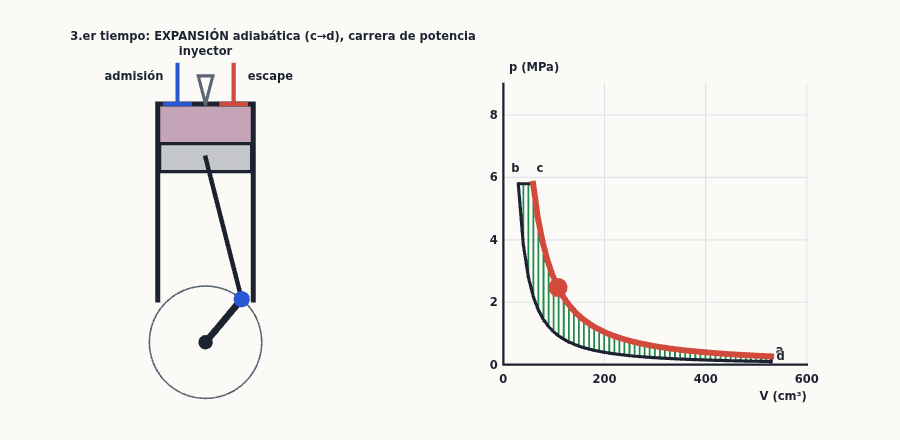
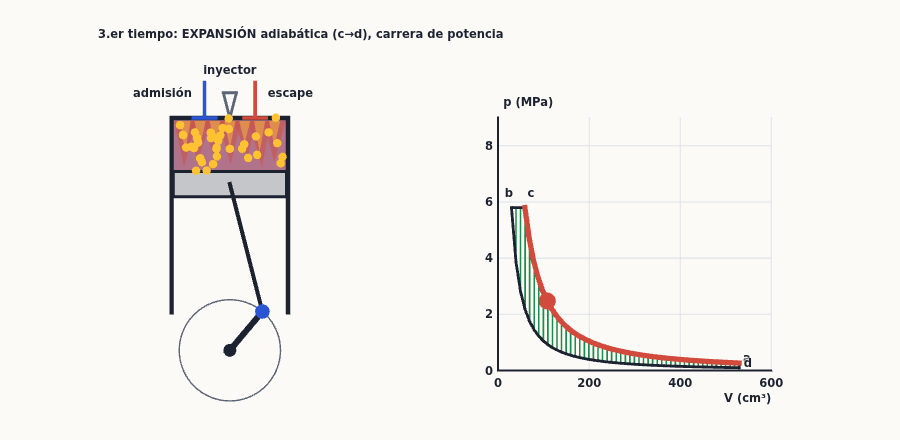
Motor Diesel: llama y moléculas dentro del cilindro (aire azul que entra, combustión con llama, gases que salen por el escape), cámara y cilindro más grandes
Claude-Session: https://claude.ai/code/session_013NPRw5Yt76X8T2S3CHRMJi

diff --git a/assets/escenas/motor-diesel.js b/assets/escenas/motor-diesel.js
@@ -10,11 +10,11 @@ Interactivos.registrar('motor-diesel', function (c) {
   var T = c.THREE, H = c.H, P = c.colores(), listo = false, clave = '';
   var gam = 1.4, Rg = 8.314, p0 = 101325, T0 = 300, Vd = 5e-4, VMAX = 600, PMAX = 9, TOPE = 2300;
   var r = 18, rc = 2, fi = 400, rep, sR, sRc;
-  var CX = -4.3, CY = -2.3, RC = 1.0, LB = 2.6, WL = 0.85, TOPE_P = 0.25, PH = 0.5;
+  var CX = -4.3, CY = -2.3, RC = 1.0, LB = 2.6, WL = 1.15, TOPE_P = 0.25, PH = 0.5;
   var PX0 = 1.0, PW = 5.4, PY0 = -2.7, PHH = 5.0;
   var yTDC = CY + RC + LB, crownTDC = yTDC + TOPE_P, carrera = 2 * RC;
   var fijos = [], ticks = [], eEt, eAd, eEs, eIn, eA, eB, eC, eD, eX, eY;
-  var biela, brazo, pin, centro, pistonR, pistonB, gasR, culata, valA, valE, inyec, chorro, ciclo, actual, sombra, pto, ptoC, ptoR;
+  var NP = 36, parts = [], rnd = [], llamaE, llamaI, brillo, biela, brazo, pin, centro, pistonR, pistonB, gasR, culata, valA, valE, inyec, chorro, ciclo, actual, sombra, pto, ptoC, ptoR;
   var l1 = c.lectura(''), l2 = c.lectura(''), l3 = c.lectura(''), l4 = c.lectura('');
   var fm = function (x, d) { return x.toFixed(d).replace('.', ',').replace(/^-/, '−'); };
   function gx(V) { return PX0 + V / VMAX * PW; }
@@ -25,7 +25,7 @@ Interactivos.registrar('motor-diesel', function (c) {
     var e = 1 - (Math.pow(rc, gam) - 1) / (Math.pow(r, gam - 1) * gam * (rc - 1));
     return { Vb: Vb, Va: Va, n: n, pb: pb, Tb: Tb, Tc: Tc, pd: pd, Td: Td, Qin: Qin, Qout: Qout, W: W, e: e, eO: 1 - Math.pow(r, 1 - gam), eC: 1 - T0 / Tc, Vc: rc * Vb };
   }
-  function hVis(rr) { return 0.12 + 0.045 * (24 - rr); }  /* altura de la cámara con el pistón arriba: exagerada para que se vea (la real sería carrera/(r − 1)) */
+  function hVis(rr) { return 0.5 + 0.04 * (24 - rr); }  /* altura de la cámara con el pistón arriba: exagerada para que se vea (la real sería carrera/(r − 1)) */
   function mecanismo(f) {
     var th = (f % 360) * Math.PI / 180, yp = CY + RC * Math.cos(th) + Math.sqrt(LB * LB - RC * RC * Math.sin(th) * Math.sin(th));
     return { th: th, yp: yp, crown: yp + TOPE_P, xd: crownTDC - (yp + TOPE_P), pin: [CX + RC * Math.sin(th), CY + RC * Math.cos(th)] };
@@ -43,17 +43,24 @@ Interactivos.registrar('motor-diesel', function (c) {
     var q = new T.Mesh(new T.PlaneGeometry(1, 1), new T.MeshBasicMaterial({ color: col, transparent: true, opacity: op })); q.position.z = z;
     q.poner = function (x0, y0, x1, y1) { q.position.x = (x0 + x1) / 2; q.position.y = (y0 + y1) / 2; q.scale.set(Math.max(1e-6, x1 - x0), Math.max(1e-6, y1 - y0), 1); }; c.scene.add(q); fijos.push(q); return q;
   }
+  function hs_(x) { var q = Math.sin(x) * 43758.5453; return q - Math.floor(q); }
+  for (var ii = 0; ii < NP; ii++) rnd.push([hs_(ii * 12.9 + 1), hs_(ii * 78.2 + 2), hs_(ii * 37.7 + 3)]);
+  function tri(col, op, z) {
+    var m = new T.Mesh(new T.BufferGeometry(), new T.MeshBasicMaterial({ color: col, transparent: true, opacity: op, side: T.DoubleSide })); m.position.z = z;
+    m.set = function (ts) { var a = []; ts.forEach(function (t) { a.push(t[0][0], t[0][1], 0, t[1][0], t[1][1], 0, t[2][0], t[2][1], 0); }); m.geometry.dispose(); m.geometry = new T.BufferGeometry(); m.geometry.setAttribute('position', new T.Float32BufferAttribute(a, 3)); };
+    c.scene.add(m); fijos.push(m); return m;
+  }
   function add(o) { c.scene.add(o); fijos.push(o); return o; }
   function construir() {
     var k = P.fg + P.bg + P.S + P.W + P.L + P.A + P.acc; if (k === clave && ciclo) return; clave = k;
     fijos.forEach(function (o) { c.scene.remove(o); }); fijos = [];
-    c.vista(-6.8, 6.9, -3.75, 3.5); var w = 0.04, i;
+    c.vista(-6.8, 6.9, -3.75, 4.3); var w = 0.04, i;
     var rej = []; [0, 200, 400, 600].forEach(function (v) { rej.push([[gx(v), PY0], [gx(v), PY0 + PHH]]); }); [0, 2, 4, 6, 8].forEach(function (v) { rej.push([[PX0, gy(v)], [PX0 + PW, gy(v)]]); });
     var a = add(H.cinta(T, rej, P.bd, w * 0.5)); a.position.z = -0.3;
     var b = add(H.cinta(T, [[[PX0, PY0], [PX0 + PW, PY0]], [[PX0, PY0], [PX0, PY0 + PHH]]], P.fg, w)); b.position.z = -0.2;
     var cir = []; for (i = 0; i <= 72; i++) cir.push([CX + RC * Math.sin(2 * Math.PI * i / 72), CY + RC * Math.cos(2 * Math.PI * i / 72)]);
     add(H.cinta(T, [cir], P.mut, w * 0.7, [w * 5, w * 4])).position.z = -0.1;
-    gasR = rect(P.S, 0.5, -0.05); pistonR = rect(P.mut, 0.35, 0.02);
+    gasR = rect(P.S, 0.5, -0.05); brillo = rect(P.W, 0, -0.04); llamaE = tri(P.W, 0.9, 0.0); llamaI = tri(new T.Color('#ffc233'), 0.9, 0.01); pistonR = rect(P.mut, 0.35, 0.02);
     pistonB = add(H.cinta(T, [], P.fg, w * 1.5)); pistonB.position.z = 0.08;
     culata = add(H.cinta(T, [], P.fg, w * 2.2)); culata.position.z = 0.1;
     valA = add(H.cinta(T, [], P.S, w * 1.8)); valA.position.z = 0.12; valE = add(H.cinta(T, [], P.W, w * 1.8)); valE.position.z = 0.12;
@@ -63,6 +70,7 @@ Interactivos.registrar('motor-diesel', function (c) {
     sombra = add(H.cinta(T, [], P.L, w * 0.8)); sombra.position.z = 0.02;
     ciclo = add(H.cinta(T, [], P.fg, w * 1.4)); ciclo.position.z = 0.1; actual = add(H.cinta(T, [], P.W, w * 2.6)); actual.position.z = 0.14;
     pto = add(H.punto(T, 0, 0, w * 4.2, P.W)); pto.position.z = 0.5;
+    parts = []; for (i = 0; i < NP; i++) { var q = add(H.punto(T, 0, 0, w * 2.1, P.S)); q.position.z = 0.3; parts.push(q); }
     ticks.forEach(function (e) { e.ver(false); }); var j = 0, tx;
     [0, 200, 400, 600].forEach(function (v) { tx = ticks[j] || (ticks[j] = c.etiqueta('', 0, 0, 'c')); j++; tx.poner(fm(v, 0)); tx.mover(gx(v), PY0 - 0.25); tx.ver(true); });
     [0, 2, 4, 6, 8].forEach(function (v) { tx = ticks[j] || (ticks[j] = c.etiqueta('', 0, 0, 'r')); j++; tx.poner(fm(v, 0)); tx.mover(PX0 - 0.1, gy(v)); tx.ver(true); });
@@ -74,16 +82,36 @@ Interactivos.registrar('motor-diesel', function (c) {
     culata.set([[[xl, -1.55], [xl, headY], [xr, headY], [xr, -1.55]]]);
     pistonR.poner(x0 + 0.03, m.crown - PH, x1 - 0.03, m.crown); pistonB.set([[[x0 + 0.03, m.crown - PH], [x0 + 0.03, m.crown], [x1 - 0.03, m.crown], [x1 - 0.03, m.crown - PH], [x0 + 0.03, m.crown - PH]]]);
     var u = Math.max(0, Math.min(1, (S.T - T0) / (TOPE - T0))), col = new T.Color(P.S).lerp(new T.Color(P.W), u);
-    gasR.material.color.copy(col); gasR.poner(x0 + 0.03, m.crown, x1 - 0.03, headY);
+    gasR.material.opacity = S.et === 2 || S.et === 3 ? 0.75 : 0.5; gasR.material.color.copy(S.et >= 4 ? new T.Color(P.mut).lerp(new T.Color(P.W), 0.2) : col); gasR.poner(x0 + 0.03, m.crown, x1 - 0.03, headY);
     var abA = S.et === 0 ? 0.16 : 0, abE = S.et === 5 || S.et === 4 ? 0.16 : 0;
     valA.set([[[CX - 0.5, headY + 0.7 - abA], [CX - 0.5, headY - abA]], [[CX - 0.72, headY - abA], [CX - 0.28, headY - abA]]]);
     valE.set([[[CX + 0.5, headY + 0.7 - abE], [CX + 0.5, headY - abE]], [[CX + 0.28, headY - abE], [CX + 0.72, headY - abE]]]);
     inyec.set([[[CX - 0.13, headY + 0.5], [CX + 0.13, headY + 0.5], [CX, headY], [CX - 0.13, headY + 0.5]]]);
-    chorro.set(S.et === 2 ? [[[CX, headY - 0.02], [CX - 0.3, headY - 0.38]], [[CX, headY - 0.02], [CX, headY - 0.42]], [[CX, headY - 0.02], [CX + 0.3, headY - 0.38]]] : []);
+    // llama, gases y moléculas dentro de la cámara (todo en función de φ: al girar hacia atrás se deshace)
+    var xa = x0 + 0.12, xb = x1 - 0.12, yb = m.crown + 0.08, yt = headY - 0.06, hc = headY - m.crown, fr_ = function (z) { return z - Math.floor(z); };
+    var cl = new T.Color(P.W), cf = new T.Color(P.S), cm = new T.Color(P.mut), wh = new T.Color('#ffffff');
+    var s0 = S.et === 2 ? (S.V - K.Vb) / (K.Vc - K.Vb) : 1, fade = S.et === 2 ? 1 : S.et === 3 ? Math.max(0, 1 - 1.5 * Math.sqrt((S.V - K.Vc) / (K.Va - K.Vc))) : 0;
+    var tong = [], tong2 = [], NT = 7, kk, L = S.et === 2 ? 0.55 + 0.45 * s0 : 1;
+    if (fade > 0) for (kk = 0; kk < NT; kk++) {
+      var xk = xa + (xb - xa) * (kk + 0.5) / NT, hw = (xb - xa) / NT * 0.75, la = hc * L * (0.6 + 0.4 * rnd[kk][0]) * (1 + 0.12 * Math.sin(fi * 0.9 + kk * 2.1)), ap = Math.max(yb, yt - la);
+      tong.push([[xk - hw, yt], [xk + hw, yt], [xk + 0.06 * Math.sin(fi * 0.7 + kk), ap]]);
+      tong2.push([[xk - hw * 0.5, yt], [xk + hw * 0.5, yt], [xk, Math.max(yb, yt - la * 0.6)]]);
+    }
+    llamaE.set(tong); llamaI.set(tong2); llamaE.material.opacity = 0.9 * fade; llamaI.material.opacity = 0.9 * fade;
+    brillo.poner(x0 + 0.03, m.crown, x1 - 0.03, headY); brillo.material.opacity = 0.3 * fade * (S.et === 2 || S.et === 3 ? 1 : 0) + (S.et === 2 && fi < 376 ? 0.5 * (1 - (fi - 360) / 16) : 0);
+    for (i = 0; i < NP; i++) {
+      var rr = rnd[i], bx = xa + (xb - xa) * rr[0], by = yb + (yt - yb) * rr[1], jit = 0.02 + 0.045 * Math.sqrt(S.T / T0) * (S.et === 0 || S.et === 5 ? 0.5 : 1), ph = fi * 0.45 + rr[2] * 6.283, px, py, s1, vis = true, pc;
+      px = bx + Math.sin(ph) * jit; py = by + Math.cos(ph * 1.3) * jit;
+      if (S.et === 0) { s1 = fr_(i / NP + fi / 75); px = CX - 0.5 + (px - (CX - 0.5)) * s1; py = headY + 0.55 + (py - headY - 0.55) * s1; vis = py < yt + 0.02 || s1 < 0.5; pc = cf.clone(); }
+      else if (S.et >= 4) { s1 = fr_(i / NP + (fi - 540) / 80); px = px + (CX + 0.5 - px) * s1; py = py + (headY + 0.9 - py) * s1; vis = s1 < 0.97 && (fi - 540) / 80 + i / NP > 0.2 * 0 ; pc = cl.clone().lerp(cm, Math.min(1, s1 * 1.5)); }
+      else pc = u < 0.3 ? cf.clone() : S.et >= 2 ? new T.Color('#ffc233') : cl.clone();
+      parts[i].visible = vis; parts[i].mover(px, py); parts[i].material.color.copy(pc);
+    }
+    chorro.set(S.et === 2 ? [[[CX, headY - 0.02], [CX - 0.3, Math.max(m.crown + 0.05, headY - 0.38)]], [[CX, headY - 0.02], [CX, Math.max(m.crown + 0.05, headY - 0.42)]], [[CX, headY - 0.02], [CX + 0.3, Math.max(m.crown + 0.05, headY - 0.38)]]] : []);
     biela.set([[m.pin, [CX, m.yp]]]); brazo.set([[[CX, CY], m.pin]]); pin.mover(m.pin[0], m.pin[1]);
     eAd.mover(CX - 0.75, headY + 0.5); eEs.mover(CX + 0.75, headY + 0.5); eIn.mover(CX, headY + 0.95);
     var NOM = ['1.er tiempo: ADMISIÓN (entra aire a p₀)', '2.º tiempo: COMPRESIÓN adiabática (a→b)', '3.er tiempo: INYECCIÓN y combustión a p constante (b→c)', '3.er tiempo: EXPANSIÓN adiabática (c→d), carrera de potencia', '4.º tiempo: se abre el ESCAPE (d→a), p baja a V constante', '4.º tiempo: ESCAPE (el pistón expulsa los gases)'];
-    eEt.poner(NOM[S.et]); eEt.mover(CX + 1.2, 3.15);
+    eEt.poner(NOM[S.et]); eEt.mover(CX + 1.4, 3.95);
     // diagrama pV: ciclo ideal en MPa y cm³
     var ab = [], cd = [], hs = [], Vb = K.Vb * 1e6, Va = K.Va * 1e6, Vc = K.Vc * 1e6, pb = K.pb / 1e6;
     for (i = 0; i <= 50; i++) { var V1 = Vb + (Va - Vb) * i / 50; ab.push([gx(V1), gy(p0 * Math.pow(Va / V1, gam) / 1e6)]); if (i % 1 === 0) { var top = V1 <= Vc ? pb : pb * Math.pow(Vc / V1, gam); hs.push([[gx(V1), gy(p0 * Math.pow(Va / V1, gam) / 1e6)], [gx(V1), gy(top)]]); } }
@@ -110,13 +138,13 @@ Interactivos.registrar('motor-diesel', function (c) {
     { titulo: 'Gira el cigüeñal arrastrando el círculo: mueves el motor a mano', x: function () { return mecanismo(fi).pin; },
       mover: function (wx, wy) { var t = Math.atan2(wx - CX, wy - CY) * 180 / Math.PI; if (t < 0) t += 360; var d = ((t - (fi % 360) + 540) % 360) - 180; rep.pause(); rep.poner((((fi + d) % 720) + 720) % 720); } },
     { titulo: 'Sube o baja la culata: cambia la razón de compresión r', x: function () { return [CX + WL, crownTDC + hVis(r)]; },
-      mover: function (wx, wy) { c.fijar(sR, 24 - (wy - crownTDC - 0.12) / 0.045); } },
+      mover: function (wx, wy) { c.fijar(sR, 24 - (wy - crownTDC - 0.5) / 0.04); } },
     { titulo: 'Arrastra c hacia la derecha: la inyección dura más (razón de corte)', x: function () { var K = ciclo_(); return [gx(K.Vc * 1e6), gy(K.pb / 1e6)]; },
       mover: function (wx) { c.fijar(sRc, ((wx - PX0) / PW * VMAX) / (ciclo_().Vb * 1e6)); } }
   ]);
   eEt = c.etiqueta('', 0, 0, 'c'); eAd = c.etiqueta('admisión', 0, 0, 'r'); eEs = c.etiqueta('escape', 0, 0, 'l'); eIn = c.etiqueta('inyector', 0, 0, 'c');
   eX = c.etiqueta('', 0, 0, 'r'); eY = c.etiqueta('', 0, 0, 'l'); eA = c.etiqueta('', 0, 0, 'c'); eB = c.etiqueta('', 0, 0, 'c'); eC = c.etiqueta('', 0, 0, 'c'); eD = c.etiqueta('', 0, 0, 'c');
-  c.leyenda([['var(--fg)', 'ciclo Diesel ideal a→b→c→d→a (la línea a p₀ de admisión y escape se anula)', 'linea'], ['var(--warn-b)', 'proceso en curso / estado del aire (más caliente = más naranja)', 'punto'], ['var(--X)', 'área = trabajo neto W', 'area'], ['var(--U)', 'aire frío y válvula de admisión', 'area']]);
+  c.leyenda([['var(--fg)', 'ciclo Diesel ideal a→b→c→d→a (la línea a p₀ de admisión y escape se anula)', 'linea'], ['var(--warn-b)', 'proceso en curso / estado del aire (más caliente = más naranja)', 'punto'], ['var(--X)', 'área = trabajo neto W', 'area'], ['var(--warn-b)', 'llama de la combustión; puntos = moléculas de aire (azul entra, gris sale)', 'area'], ['var(--U)', 'aire frío y válvula de admisión', 'area']]);
   c.alCambiarTema(function (p) { P = p; c.renderer.setClearColor(p.bg); if (!listo) return; clave = ''; calc(); });
   listo = true; calc();
 });

diff --git a/temas/tema_20_segunda_ley_termodinamica.html b/temas/tema_20_segunda_ley_termodinamica.html
@@ -170,7 +170,7 @@
 </figure>
 <figure class="interactivo" data-escena="motor-diesel" data-params='{"dim":2,"marcas":false}' aria-label="Interactivo: motor Diesel de cuatro tiempos con cilindro, pistón, biela y cigüeñal enlazados al ciclo en el diagrama pV; se gira el cigüeñal a mano o con el reproductor y se cambian la razón de compresión y la razón de corte">
   <img class="int-static" src="../assets/img/int_motor-diesel.png" alt="Interactivo: motor Diesel de cuatro tiempos con cilindro, pistón, biela y cigüeñal enlazados al ciclo en el diagrama pV; se gira el cigüeñal a mano o con el reproductor y se cambian la razón de compresión y la razón de corte">
-  <figcaption><b>Juega con el motor Diesel.</b> Pulsa ▶ o <b>agarra el círculo del cigüeñal y gíralo a mano</b>: pistón, válvulas, inyector y el punto del diagrama pV se mueven a la vez (el aire se pone naranja al calentarse). Cambia la <b>razón de compresión</b> $r=V_a/V_b$ (deslizador o <b>sube y baja la culata</b>; el hueco sobre el pistón está exagerado para que se vea) y la <b>razón de corte</b> $r_c=V_c/V_b$, que es lo que dura la inyección (deslizador o <b>arrastra el punto c</b>). <b>Observa:</b> (1) con $r=18$ y $r_c=2$: $T_b=953$ K sin ninguna chispa, $T_c=1907$ K, $Q_H=597$ J, $|Q_C|=220$ J, $W=377$ J y $e=63{,}2\,\%$; (2) el tramo $b\to c$ es a <b>presión constante</b> (el pistón ya baja mientras se quema el gasóleo) y $d\to a$, a <b>volumen constante</b> (se abre el escape); (3) <b>sube $r_c$ a 4</b>: más combustible, $T_c$ se dispara a 3813 K pero $e$ baja a $55{,}3\,\%$; con $r_c=1{,}1$ (inyección casi instantánea) se acerca al Otto, $67{,}9\,\%$ frente a $68{,}5\,\%$ del Otto con el mismo $r$; (4) <b>con el mismo $r$ el Otto rinde más</b>, pero el Diesel puede subir $r$ porque comprime solo aire: con $r=24$ y $r_c=2$, $e=67{,}2\,\%$; (5) la eficiencia de Carnot entre 300 K y $T_c$ (84 % con $r=18$) es siempre una cota superior. <b>Reto:</b> consigue $e\ge60\,\%$ sin pasar de $T_c=2000$ K (el material no lo aguanta). Fórmula: $e=1-\dfrac{r_c^{\gamma}-1}{r^{\gamma-1}\,\gamma\,(r_c-1)}$, con $\gamma=1{,}4$, $V_d=500$ cm³ y aire inicial a 300 K y 1 atm. <span class="src" data-l="P" data-ref="Interactivo propio de U §20.3, pp. 652-654 (ciclo Diesel)">P</span></figcaption>
+  <figcaption><b>Juega con el motor Diesel.</b> Pulsa ▶ o <b>agarra el círculo del cigüeñal y gíralo a mano</b>: pistón, válvulas, inyector y el punto del diagrama pV se mueven a la vez (el aire se pone naranja al calentarse; ves entrar el aire frío en azul, la <b>llama</b> de la combustión con las moléculas calientes agitándose y los gases salir por el escape). Cambia la <b>razón de compresión</b> $r=V_a/V_b$ (deslizador o <b>sube y baja la culata</b>; el hueco sobre el pistón está exagerado para que se vea) y la <b>razón de corte</b> $r_c=V_c/V_b$, que es lo que dura la inyección (deslizador o <b>arrastra el punto c</b>). <b>Observa:</b> (1) con $r=18$ y $r_c=2$: $T_b=953$ K sin ninguna chispa, $T_c=1907$ K, $Q_H=597$ J, $|Q_C|=220$ J, $W=377$ J y $e=63{,}2\,\%$; (2) el tramo $b\to c$ es a <b>presión constante</b> (el pistón ya baja mientras se quema el gasóleo) y $d\to a$, a <b>volumen constante</b> (se abre el escape); (3) <b>sube $r_c$ a 4</b>: más combustible, $T_c$ se dispara a 3813 K pero $e$ baja a $55{,}3\,\%$; con $r_c=1{,}1$ (inyección casi instantánea) se acerca al Otto, $67{,}9\,\%$ frente a $68{,}5\,\%$ del Otto con el mismo $r$; (4) <b>con el mismo $r$ el Otto rinde más</b>, pero el Diesel puede subir $r$ porque comprime solo aire: con $r=24$ y $r_c=2$, $e=67{,}2\,\%$; (5) la eficiencia de Carnot entre 300 K y $T_c$ (84 % con $r=18$) es siempre una cota superior. <b>Reto:</b> consigue $e\ge60\,\%$ sin pasar de $T_c=2000$ K (el material no lo aguanta). Fórmula: $e=1-\dfrac{r_c^{\gamma}-1}{r^{\gamma-1}\,\gamma\,(r_c-1)}$, con $\gamma=1{,}4$, $V_d=500$ cm³ y aire inicial a 300 K y 1 atm. <span class="src" data-l="P" data-ref="Interactivo propio de U §20.3, pp. 652-654 (ciclo Diesel)">P</span></figcaption>
 </figure>
 <details class="check"><summary>✍ Comprueba que lo has entendido (2 min)</summary>
 <ol>

diff --git a/contenido/tema_20/partes/motor-diesel.html b/contenido/tema_20/partes/motor-diesel.html
@@ -1,4 +1,4 @@
 <figure class="interactivo" data-escena="motor-diesel" data-params='{"dim":2,"marcas":false}' aria-label="Interactivo: motor Diesel de cuatro tiempos con cilindro, pistón, biela y cigüeñal enlazados al ciclo en el diagrama pV; se gira el cigüeñal a mano o con el reproductor y se cambian la razón de compresión y la razón de corte">
   <img class="int-static" src="../assets/img/int_motor-diesel.png" alt="Interactivo: motor Diesel de cuatro tiempos con cilindro, pistón, biela y cigüeñal enlazados al ciclo en el diagrama pV; se gira el cigüeñal a mano o con el reproductor y se cambian la razón de compresión y la razón de corte">
-  <figcaption><b>Juega con el motor Diesel.</b> Pulsa ▶ o <b>agarra el círculo del cigüeñal y gíralo a mano</b>: pistón, válvulas, inyector y el punto del diagrama pV se mueven a la vez (el aire se pone naranja al calentarse). Cambia la <b>razón de compresión</b> $r=V_a/V_b$ (deslizador o <b>sube y baja la culata</b>; el hueco sobre el pistón está exagerado para que se vea) y la <b>razón de corte</b> $r_c=V_c/V_b$, que es lo que dura la inyección (deslizador o <b>arrastra el punto c</b>). <b>Observa:</b> (1) con $r=18$ y $r_c=2$: $T_b=953$ K sin ninguna chispa, $T_c=1907$ K, $Q_H=597$ J, $|Q_C|=220$ J, $W=377$ J y $e=63{,}2\,\%$; (2) el tramo $b\to c$ es a <b>presión constante</b> (el pistón ya baja mientras se quema el gasóleo) y $d\to a$, a <b>volumen constante</b> (se abre el escape); (3) <b>sube $r_c$ a 4</b>: más combustible, $T_c$ se dispara a 3813 K pero $e$ baja a $55{,}3\,\%$; con $r_c=1{,}1$ (inyección casi instantánea) se acerca al Otto, $67{,}9\,\%$ frente a $68{,}5\,\%$ del Otto con el mismo $r$; (4) <b>con el mismo $r$ el Otto rinde más</b>, pero el Diesel puede subir $r$ porque comprime solo aire: con $r=24$ y $r_c=2$, $e=67{,}2\,\%$; (5) la eficiencia de Carnot entre 300 K y $T_c$ (84 % con $r=18$) es siempre una cota superior. <b>Reto:</b> consigue $e\ge60\,\%$ sin pasar de $T_c=2000$ K (el material no lo aguanta). Fórmula: $e=1-\dfrac{r_c^{\gamma}-1}{r^{\gamma-1}\,\gamma\,(r_c-1)}$, con $\gamma=1{,}4$, $V_d=500$ cm³ y aire inicial a 300 K y 1 atm. <span class="src" data-l="P" data-ref="Interactivo propio de U §20.3, pp. 652-654 (ciclo Diesel)">P</span></figcaption>
+  <figcaption><b>Juega con el motor Diesel.</b> Pulsa ▶ o <b>agarra el círculo del cigüeñal y gíralo a mano</b>: pistón, válvulas, inyector y el punto del diagrama pV se mueven a la vez (el aire se pone naranja al calentarse; ves entrar el aire frío en azul, la <b>llama</b> de la combustión con las moléculas calientes agitándose y los gases salir por el escape). Cambia la <b>razón de compresión</b> $r=V_a/V_b$ (deslizador o <b>sube y baja la culata</b>; el hueco sobre el pistón está exagerado para que se vea) y la <b>razón de corte</b> $r_c=V_c/V_b$, que es lo que dura la inyección (deslizador o <b>arrastra el punto c</b>). <b>Observa:</b> (1) con $r=18$ y $r_c=2$: $T_b=953$ K sin ninguna chispa, $T_c=1907$ K, $Q_H=597$ J, $|Q_C|=220$ J, $W=377$ J y $e=63{,}2\,\%$; (2) el tramo $b\to c$ es a <b>presión constante</b> (el pistón ya baja mientras se quema el gasóleo) y $d\to a$, a <b>volumen constante</b> (se abre el escape); (3) <b>sube $r_c$ a 4</b>: más combustible, $T_c$ se dispara a 3813 K pero $e$ baja a $55{,}3\,\%$; con $r_c=1{,}1$ (inyección casi instantánea) se acerca al Otto, $67{,}9\,\%$ frente a $68{,}5\,\%$ del Otto con el mismo $r$; (4) <b>con el mismo $r$ el Otto rinde más</b>, pero el Diesel puede subir $r$ porque comprime solo aire: con $r=24$ y $r_c=2$, $e=67{,}2\,\%$; (5) la eficiencia de Carnot entre 300 K y $T_c$ (84 % con $r=18$) es siempre una cota superior. <b>Reto:</b> consigue $e\ge60\,\%$ sin pasar de $T_c=2000$ K (el material no lo aguanta). Fórmula: $e=1-\dfrac{r_c^{\gamma}-1}{r^{\gamma-1}\,\gamma\,(r_c-1)}$, con $\gamma=1{,}4$, $V_d=500$ cm³ y aire inicial a 300 K y 1 atm. <span class="src" data-l="P" data-ref="Interactivo propio de U §20.3, pp. 652-654 (ciclo Diesel)">P</span></figcaption>
 </figure>

diff --git a/cambios.html b/cambios.html
@@ -20,8 +20,9 @@ main.cambios h2{font-size:1.05rem;margin:1.8em 0 .3em;padding-top:.5em;border-to
 <div class="topbar"><div class="in"><a href="index.html">← Índice de temas</a></div></div>
 <main class="cambios">
 <h1>Cambios</h1>
-<p>Historial de cambios del proyecto (generado desde git el 2026-11-22; 137 cambios). Cada tema lleva además su fecha de última revisión en el pie.</p>
+<p>Historial de cambios del proyecto (generado desde git el 2026-11-22; 138 cambios). Cada tema lleva además su fecha de última revisión en el pie.</p>
 <h2>2026-11-22</h2>
+<article class="cmb"><b><span class="chip">Tema 20</span> Tema 20: interactivo del motor Diesel de 4 tiempos (cilindro, biela y cigüeñal enlazados al ciclo pV; gira el cigüeñal a mano, sube la culata para cambiar r, arrastra c para cambiar la razón de corte; reto e ≥ 60 % con T ≤ 2000 K)</b><small>9935280</small></article>
 <article class="cmb"><b>Asas arrastrables en 19 interactivos más (rampas, escalera, potencial, resorte, cable, Doppler, ondas, amortiguadas, gas ideal, Maxwell, dilatación, entropía, rodadura, momento angular…); quedan solo los 3D y 5 escenas sin asa</b><small>58d6c60</small></article>
 <article class="cmb"><b>Más interactivos con asas arrastrables: choques (masas), choque 2D (parámetro de impacto), MAS (estado inicial), onda viajera (partícula, cresta, λ, T), órbitas (lanzamiento y nave), ciclos pV</b><small>d22081e</small></article>
 <article class="cmb"><b>Interactivos con manipulación directa: asas arrastrables sobre el dibujo (rampa, cubo y sonda de presión, vector de lanzamiento, fuerzas, resorte, orificio) sincronizadas con los deslizadores</b><small>6fd64dd</small></article>
